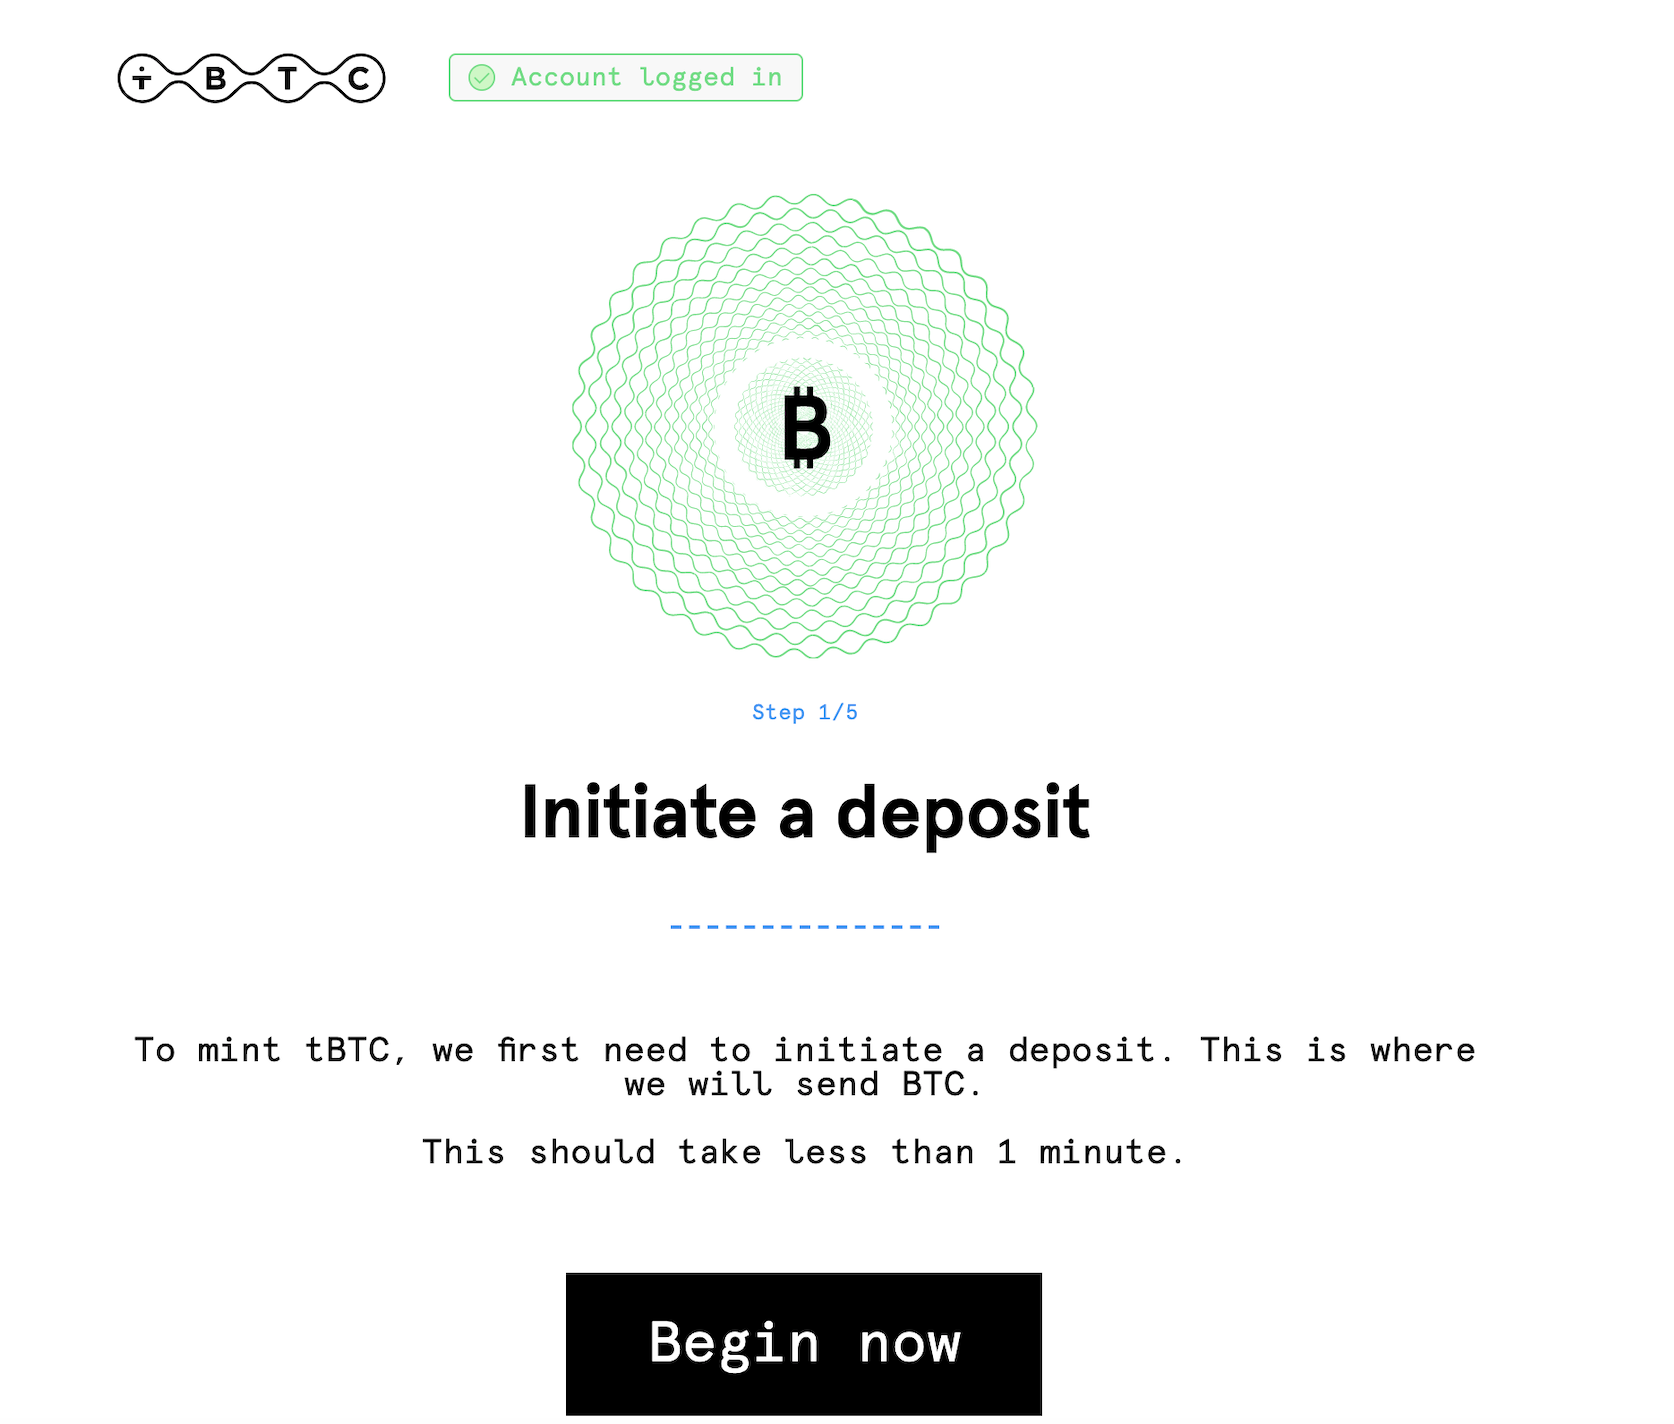
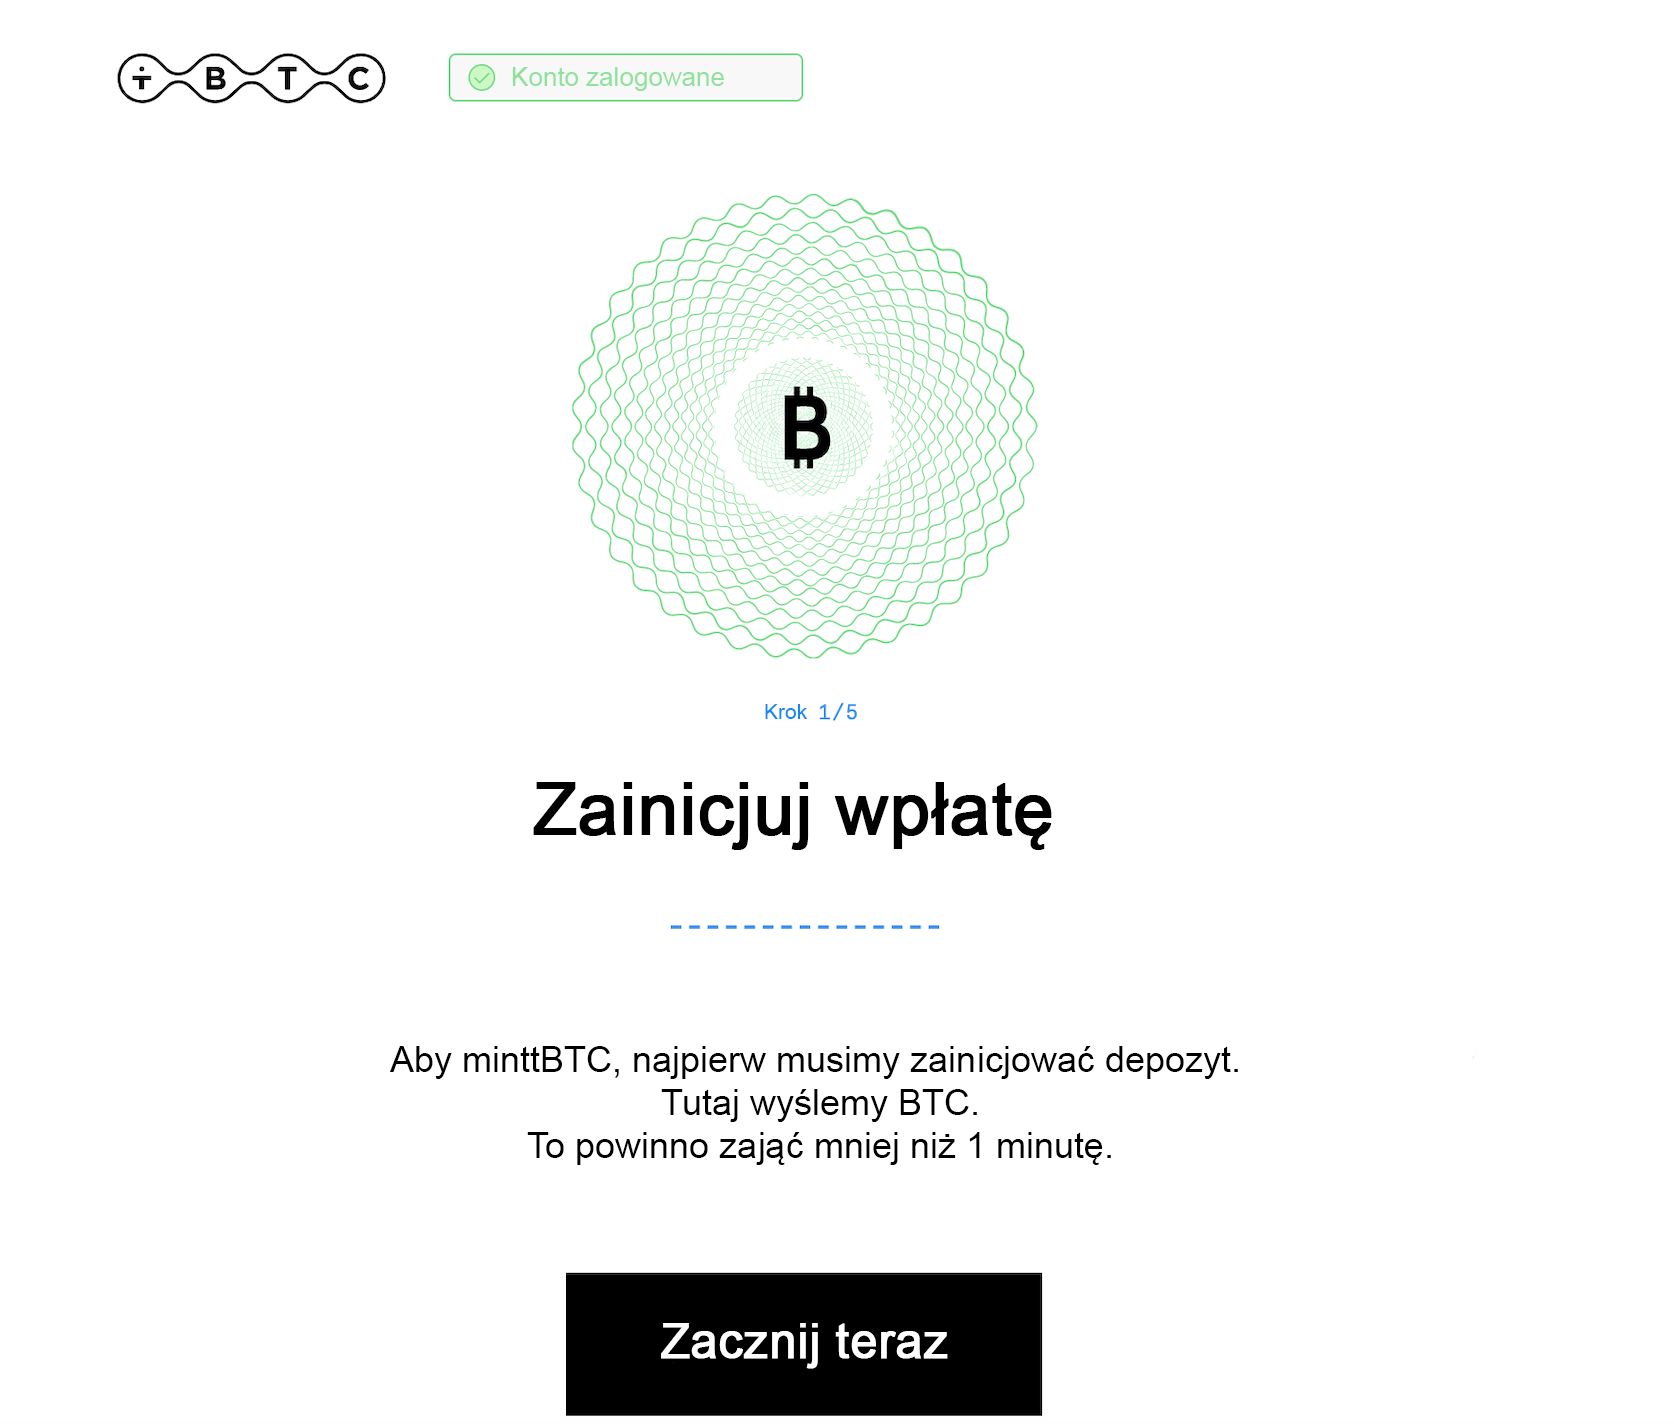
Update Resources (pl) “jak-korzystać-z-aplikacji-tbtc-dapp”

diff --git a/src/pages/developers/jak-korzystać-z-aplikacji-tbtc-dapp.pl.md b/src/pages/developers/jak-korzystać-z-aplikacji-tbtc-dapp.pl.md
@@ -9,73 +9,63 @@ date: 2020-07-24T15:36:14.096Z
 tags:
   - developers
 ---
-Poniżej zamieszczamy przewodnik krok po kroku dotyczący korzystania z aplikacji tBTC dApp.
-Aby rozpocząć:
-•	Upewnij się, że masz zainstalowaną Metamask.
-•	Zdobądź ETH z Coinbase lub innego źródła, jeśli jeszcze go nie masz.
-•	Upewnij się, że masz ETH w portfelu Metamask.
-Kiedy będziesz już miał ETH w portfelu, przejdź do aplikacji Ropsten tBTC dApp.
-Następnie przejdź przez 5 następujących kroków:
-1.	Utwórz depozyt
-(in the picture)
-Krok 1 z 5
-Aby wybić tBTC, potrzebujemy na początek wnieść depozyt. To tutaj wyślemy BTC.
-Proces zajmie mniej niż 1 minutę.
-Rozpocznij
-2.	Wygeneruj adres portfela (obecnie wymagane są 2 potwierdzenia z Metamask):
-(in the picture)
-Krok 2 z 5
-Tworzenie depozytu
-Pobieranie adresu BTC…
-3.	Wyślij BTC z dowolnego portfela na wskazany adres za pomocą kodu QR. Możesz również ręcznie skopiować adres:
-(in the picture)
-Krok 2 z 5
-Zapłać: 0,001 BTC
-Zeskanuj kod QR lub kliknij aby skopiować poniższy adres do Twojego portfela.
-Opłata za wpis: 0,000005 BTC*
-4.	Poczekaj na potwierdzenie złożenia depozytu na łańcuchu Bitcoina. Proces powinien zająć około godziny i wymaga 6 potwierdzeń:
-(in the picture)
-Krok 3 z 5
-Potwierdzenie w toku…
-Oczekiwanie na potwierdzenia transakcji. Wyślemy Ci informacje, kiedy Twoje TBTC będzie gotowe do wybicia.
-Opłata za wpis: 0,000005 BTC*
-5.	Po zatwierdzeniu depozytu, będziesz mógł wygenerować dowód SPV, który jest kryptograficznym dowodem wpłaty depozytu z łańcucha BTC. Prześlij go w celu otrzymania TBTC. Ten ostatni krok składa się z dwóch części:
-a.	Prześlij dowód i zatwierdź go (wymaga to jednego potwierdzenia Metmask)
-b.	Po zatwierdzeniu wybij TBTC w automacie sprzedającym (Vending Machine) – wymaga to dwóch potwierdzeń Metamask: jednego, aby zatwierdzić transfer TDT Vending Machine, a drugiego do faktycznego wybicia TBTC.
-(in the picture)
-Krok 5 z 5
-Proces został zakończony pomyślnie.
-Jesteś teraz dumnym posiadaczem 0,000995 TBTC
-Czas trwania obligacji: 6 miesięcy
-ID TDT: xxxxxxxxxxxxxxx
-Po uzyskaniu TBTC, możesz z niego swobodnie korzystać do działania w łańcuchu Ethereum. Otrzymujesz również TDT, którego można użyć do zrealizowania depozytu na BTC (patrz następny rozdział). Możesz przeczytać więcej o TDT w dokumentacji technicznej systemu.
-Jak wymienić TBTC na BTC - wykup
-W systemie możesz również wykupić swoje BTC w zamian za TBTC.
-Najpierw wejdź do dApp, tak jak w przy pierwszej operacji (opisanej powyżej). Kliknij na „wykup”.
-Do wykonania następnych kroków będziesz potrzebował:
-1.	Identyfikatora TDT, który otrzymałeś podczas bicia TBTC. To coś jak w rodzaju biletu w szatni – potrzebujesz go, aby odzyskać swój płaszcz. Otrzymujesz go tylko pod koniec opisanego powyżej procesu.
-2.	Adres BTC, na który chcesz wysłać swoje BTC.
-Po zdobyciu tych informacji możesz rozpocząć proces wykupu.
-1.	Rozpocznij wykup podając poniższe informacje:
-(in the picture)
-Krok 1 z 6
-Jaki był Twój ID TDT?
-Wprowadź ID TDT
+Poniżej zamieszczamy przewodnik krok po kroku dotyczący korzystania z aplikacji tBTC dApp. Aby rozpocząć:
 
-Gdzie mamy wysłać Twoje Bitcoiny?
-Wprowadź adres BTC
-2.	Proces wykupu wymaga od Ciebie 4 potwierdzeń Metamask:
-a.	Pierwsze z nich zatwierdza transfer TBTC w celu pobrania TDT z Vending Machine (automatu sprzedającego).
-b.	Drugie żąda wysłania TDT z Vending Machine, wysyłając w zamian TBTC do spalenia.
-c.	Trzecie żąda wycofania BTC z depozytu reprezentowanego przez TDT. Po tym kroku transakcja wypłaty jest publikowana w sieci Bitcoin; musisz poczekać aż pojawi się odpowiednia liczba potwierdzeń z tego tytułu.
-(in the picture)
-Potwierdzenie 0 /6 bloków
-Czekamy, aż grupa sygnatariuszy podpisze i wyemituje Twoja transakcję Bitcoin. Możesz śledzić zmiany w Block Explorer.
-d.	Ostatnie potwierdzenie Metamask dotarcza dowód SPV, że wykup jest zakończony, umożliwiając tym samym uporządkowane zamknięcie grupy sygnatariuszy:
-Gratulacje! Udało Ci się wymienić TBTC na BTC!
-(in the picture)
-Krok 6 z 6
-Wykup pomyślnie zakończony.
-Bitcoiny zostały wypłacone.
-Wyświetl transakcję
-Dołącz do listy mailingowej tBTC, aby otrzymywać aktualizacje, w tym informacje o zbliżającym się uruchomieniu tBTC w mainnecie Ethereum. Aby dowiedzieć się więcej o projekcie technicznym tBTC, przeczytaj specyfikację techniczną. Dołącz do [Keep #tbtc channel on Discord] (https://chat.tbtc.network , aby uzyskać odpowiedzi na pytania techniczne dotyczące tBTC i tbtc.js, a następnie śledź #tBTC na Twitterze, aby otrzymywać wiadomości o możliwości wzięcia udziału.
+•	Upewnij się, że masz zainstalowaną Metamask.
+
+•	Zdobądź ETH z Coinbase lub innego źródła, jeśli jeszcze go nie masz.
+
+•	Upewnij się, że masz ETH w portfelu Metamask. Kiedy będziesz już miał ETH w portfelu, przejdź do aplikacji Ropsten tBTC dApp.
+
+Następnie przejdź przez 5 następujących kroków:
+
+1. Utwórz depozyt
+
+   ![](/img/1.png)
+2. Wygeneruj adres portfela (obecnie wymagane są 2 potwierdzenia z Metamask): 
+
+   ![](/img/2.png)
+3. Wyślij BTC z dowolnego portfela na wskazany adres za pomocą kodu QR. Możesz również ręcznie skopiować adres: 
+
+   ![](/img/3.png)
+4. Poczekaj na potwierdzenie złożenia depozytu na łańcuchu Bitcoina. Proces powinien zająć około godziny i wymaga 6 potwierdzeń: 
+
+   ![](/img/4.png)
+5. Po zatwierdzeniu depozytu, będziesz mógł wygenerować dowód SPV, który jest kryptograficznym dowodem wpłaty depozytu z łańcucha BTC. Prześlij go w celu otrzymania TBTC. Ten ostatni krok składa się z dwóch części: a.	Prześlij dowód i zatwierdź go (wymaga to jednego potwierdzenia Metmask)
+   b.	Po zatwierdzeniu wybij TBTC w automacie sprzedającym (Vending Machine) – wymaga to dwóch potwierdzeń Metamask: jednego, aby zatwierdzić transfer TDT Vending Machine, a drugiego do faktycznego wybicia TBTC.
+
+
+   ![](/img/5.png)
+
+
+   Po uzyskaniu TBTC, możesz z niego swobodnie korzystać do działania w łańcuchu Ethereum. Otrzymujesz również TDT, którego można użyć do zrealizowania depozytu na BTC (patrz następny rozdział). Możesz przeczytać więcej o TDT w dokumentacji technicznej systemu.
+   Jak wymienić TBTC na BTC - wykup
+   W systemie możesz również wykupić swoje BTC w zamian za TBTC.
+   Najpierw wejdź do dApp, tak jak w przy pierwszej operacji (opisanej powyżej). Kliknij na „wykup”.
+   Do wykonania następnych kroków będziesz potrzebował:
+6. Identyfikatora TDT, który otrzymałeś podczas bicia TBTC. To coś jak w rodzaju biletu w szatni – potrzebujesz go, aby odzyskać swój płaszcz. Otrzymujesz go tylko pod koniec opisanego powyżej procesu.
+
+   ![](/img/6.png)
+7. Adres BTC, na który chcesz wysłać swoje BTC. Po zdobyciu tych informacji możesz rozpocząć proces wykupu.
+
+   ![](/img/7.png)
+8. Rozpocznij wykup podając poniższe informacje: 
+
+   ![](/img/8.png)
+
+Gdzie mamy wysłać Twoje Bitcoiny? Wprowadź adres BTC
+
+2. Proces wykupu wymaga od Ciebie 4 potwierdzeń Metamask: a.	Pierwsze z nich zatwierdza transfer TBTC w celu pobrania TDT z Vending Machine (automatu sprzedającego).
+   b.	Drugie żąda wysłania TDT z Vending Machine, wysyłając w zamian TBTC do spalenia.
+   c.	Trzecie żąda wycofania BTC z depozytu reprezentowanego przez TDT. Po tym kroku transakcja wypłaty jest publikowana w sieci Bitcoin; musisz poczekać aż pojawi się odpowiednia liczba potwierdzeń z tego tytułu.
+   (in the picture)
+   Potwierdzenie 0 /6 bloków
+   Czekamy, aż grupa sygnatariuszy podpisze i wyemituje Twoja transakcję Bitcoin. Możesz śledzić zmiany w Block Explorer.
+   d.	Ostatnie potwierdzenie Metamask dotarcza dowód SPV, że wykup jest zakończony, umożliwiając tym samym uporządkowane zamknięcie grupy sygnatariuszy:
+   Gratulacje! Udało Ci się wymienić TBTC na BTC!
+   (in the picture)
+   Krok 6 z 6
+   Wykup pomyślnie zakończony.
+   Bitcoiny zostały wypłacone.
+   Wyświetl transakcję
+   Dołącz do listy mailingowej tBTC, aby otrzymywać aktualizacje, w tym informacje o zbliżającym się uruchomieniu tBTC w mainnecie Ethereum. Aby dowiedzieć się więcej o projekcie technicznym tBTC, przeczytaj specyfikację techniczną. Dołącz do \[Keep #tbtc channel on Discord] (https://chat.tbtc.network , aby uzyskać odpowiedzi na pytania techniczne dotyczące tBTC i tbtc.js, a następnie śledź #tBTC na Twitterze, aby otrzymywać wiadomości o możliwości wzięcia udziału.
